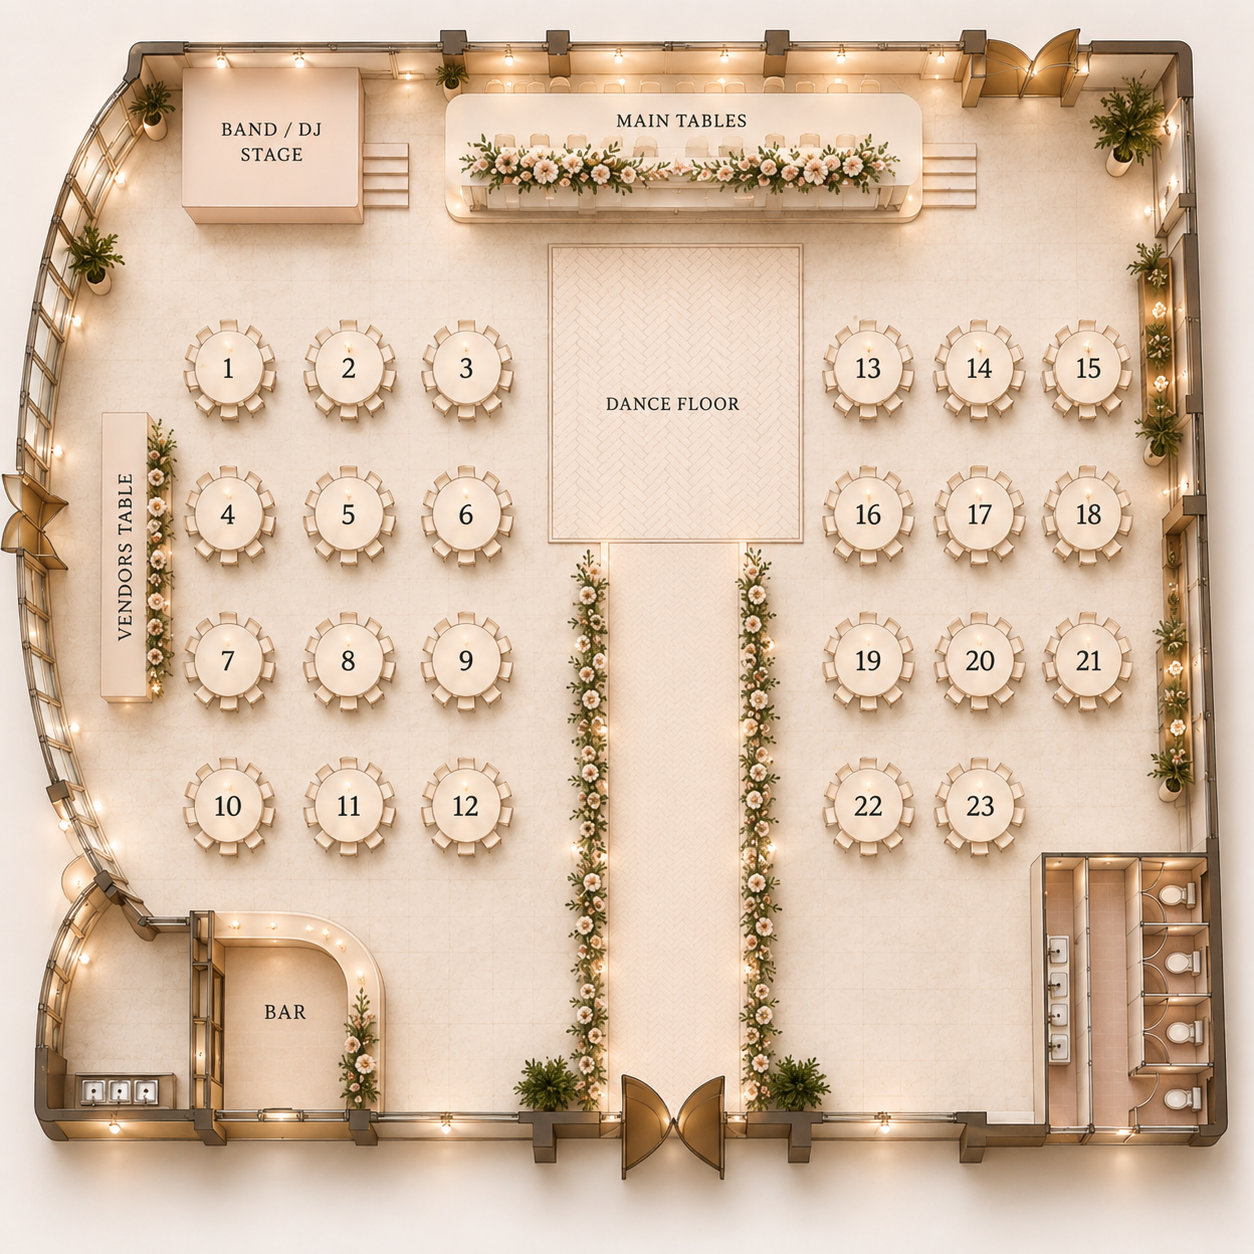
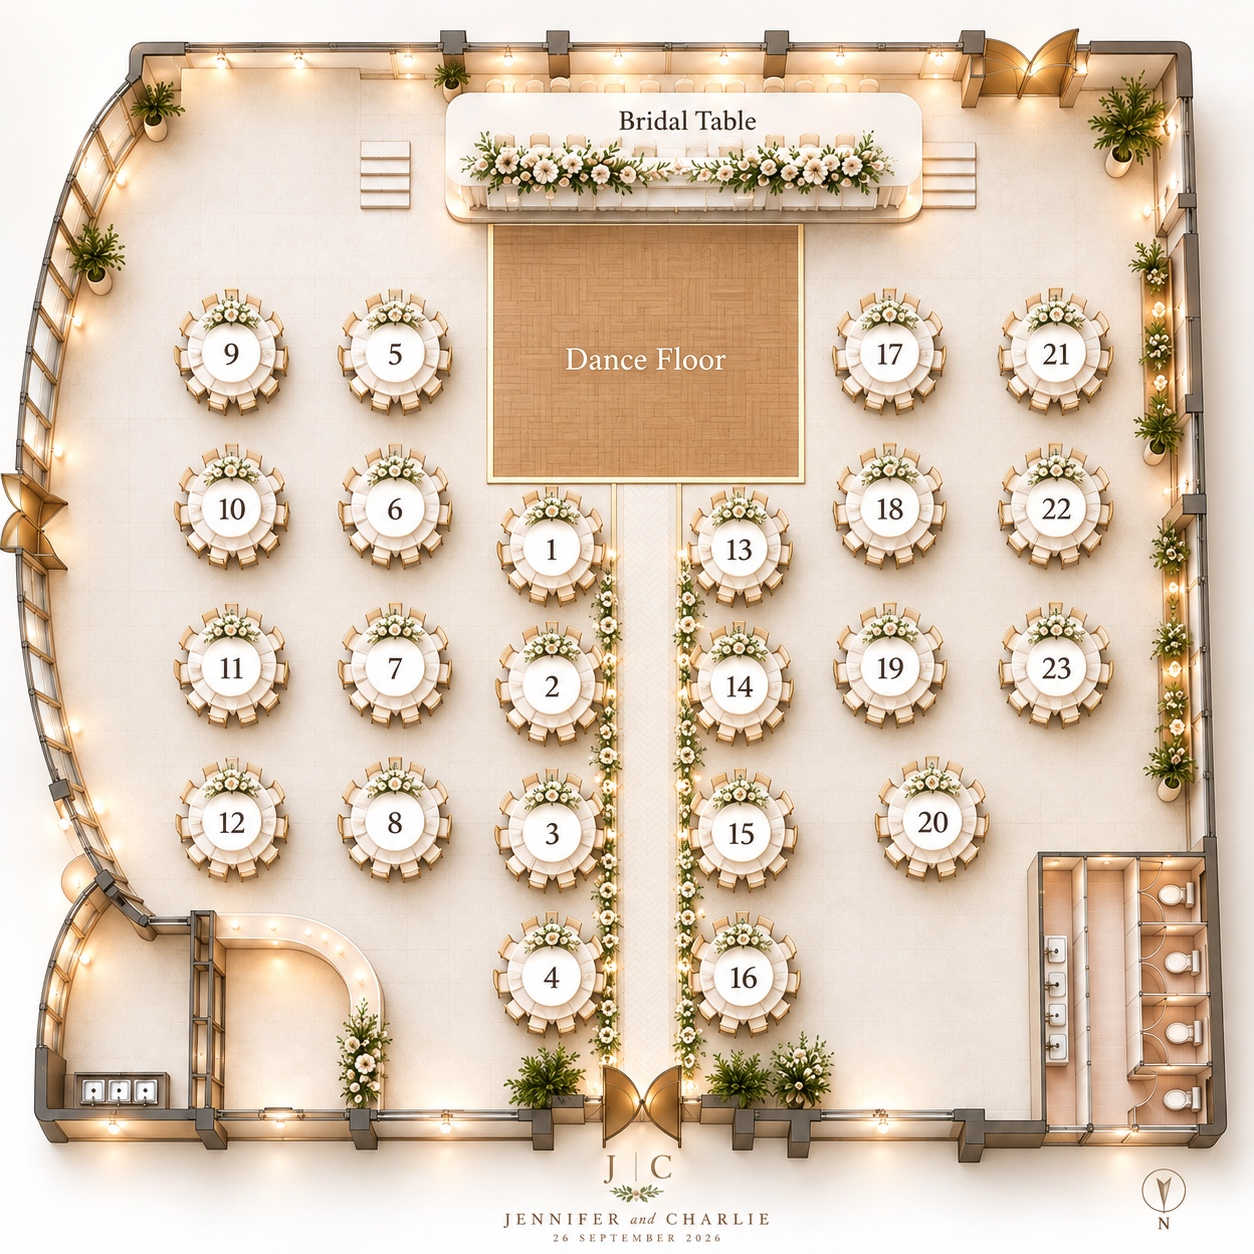
Add files via upload

diff --git a/index.html b/index.html
@@ -18,7 +18,7 @@
 .panel{overflow:hidden}.panel-head{padding:14px 15px 11px;border-bottom:1px solid #f0e4df;display:flex;justify-content:space-between;align-items:center;gap:10px}.panel-title{font-family:"Cormorant Garamond",serif;font-size:27px;font-weight:600}.panel-count{font-size:11px;color:var(--muted);text-align:right}.guest-list{padding:7px}.guest{width:100%;min-height:58px;border:0;border-bottom:1px solid #f2e8e4;background:transparent;display:flex;align-items:center;gap:11px;text-align:left;padding:9px 8px;border-radius:12px;color:var(--ink)}.guest:last-child{border-bottom:0}.guest.attended{background:var(--greenbg);border-bottom-color:transparent}.check{width:32px;height:32px;flex:0 0 32px;border:2px solid #d9c8c1;border-radius:50%;display:grid;place-items:center;color:white;font-weight:800}.attended .check{background:var(--green);border-color:var(--green)}.gcopy{min-width:0;flex:1}.gname{display:block;font-weight:700;font-size:14px;white-space:nowrap;overflow:hidden;text-overflow:ellipsis}.gmeta{display:block;font-size:10px;color:var(--muted);margin-top:4px}.attended .gmeta{color:var(--green);font-weight:600}.status{font-size:10px;font-weight:700;color:var(--green);text-transform:uppercase}.guest-actions{display:flex;align-items:center;gap:7px;flex:0 0 auto}.gift-btn{min-height:38px;min-width:58px;border:1px solid #ddc6bb;border-radius:11px;background:#fff8f4;color:#9b6754;font-size:11px;font-weight:700;padding:6px 9px}.gift-btn.has-gift{background:#f3e6d6;border-color:#d5b38b;color:#76523f}.gift-mark{font-size:12px;font-weight:700;color:#9b6754}.empty{text-align:center;padding:28px 15px;color:var(--muted);font-size:13px}
 .connection{display:flex;align-items:center;justify-content:center;gap:6px;color:var(--muted);font-size:10px;margin:10px 0}.dot{width:7px;height:7px;border-radius:50%;background:#d7b38b}.dot.live{background:var(--green)}.footer{text-align:center;font-size:9px;color:#aaa09c;margin-top:17px}
 .modal-back{position:fixed;inset:0;background:rgba(48,37,33,.36);display:none;align-items:end;justify-content:center;padding:12px;z-index:30}.modal-back.show{display:flex}.modal{width:min(500px,100%);background:#fff;border-radius:22px;padding:20px;box-shadow:0 20px 60px rgba(0,0,0,.18)}.modal h3{font-family:"Cormorant Garamond",serif;font-size:27px;margin:0 0 7px}.modal p{font-size:13px;color:var(--muted);line-height:1.5}.modal-actions{display:grid;grid-template-columns:1fr 1fr;gap:8px;margin-top:15px}.modal button{min-height:47px;border-radius:14px;border:1px solid var(--line);background:#fff;font-weight:700}.modal .danger{background:#b85d62;color:#fff;border-color:#b85d62}
-.toast{position:fixed;left:50%;bottom:18px;transform:translate(-50%,15px);opacity:0;pointer-events:none;background:#3e3937;color:#fff;padding:11px 14px;border-radius:12px;font-size:11px;z-index:40;transition:.2s;max-width:90%;text-align:center}.toast.show{opacity:1;transform:translate(-50%,0)}
+.guest.saving{opacity:.72;pointer-events:none}.gift-btn:disabled,.group-btn:disabled{opacity:.55}.connection.warn{color:#9b6754}.toast{position:fixed;left:50%;bottom:18px;transform:translate(-50%,15px);opacity:0;pointer-events:none;background:#3e3937;color:#fff;padding:11px 14px;border-radius:12px;font-size:11px;z-index:40;transition:.2s;max-width:90%;text-align:center}.toast.show{opacity:1;transform:translate(-50%,0)}
 
 
 .group-card{margin:10px 0 13px;border:1px solid #ead7cf;border-radius:16px;background:#fffaf7;overflow:hidden}
@@ -41,10 +41,10 @@
 .table-map-title{font-family:"Cormorant Garamond",serif;font-size:21px;font-weight:600}
 .table-map-note{font-size:9px;color:var(--muted);text-align:right}
 .map-window{position:relative;width:100%;aspect-ratio:1/1;overflow:hidden;border-radius:15px;border:1px solid #ead8ca;background:#f0e5d9}
-.map-stage{position:absolute;width:1536px;height:1536px;transform-origin:0 0;will-change:transform}
-.map-stage img{position:absolute;inset:0;width:1536px;height:1536px;display:block;user-select:none;-webkit-user-drag:none}
-.map-pin{position:absolute;width:62px;height:62px;border-radius:50%;border:4px solid rgba(173,85,91,.95);background:rgba(255,255,255,.58);box-shadow:0 0 0 7px rgba(201,117,121,.18);transform:translate(-50%,-50%);display:grid;place-items:center;color:var(--rose2);font-size:17px;font-weight:800}
-.map-pin.main{width:100px;height:56px;border-radius:18px;font-size:12px}
+.map-stage{position:absolute;width:1254px;height:1254px;transform-origin:0 0;will-change:transform}
+.map-stage img{position:absolute;inset:0;width:1254px;height:1254px;display:block;user-select:none;-webkit-user-drag:none}
+.map-pin{position:absolute;width:78px;height:78px;border-radius:50%;border:5px solid rgba(173,85,91,.95);background:transparent;box-shadow:0 0 0 7px rgba(201,117,121,.16);transform:translate(-50%,-50%);display:grid;place-items:center;color:transparent;font-size:0;font-weight:800;pointer-events:none}
+.map-pin.main{width:480px;height:118px;border-radius:24px;font-size:0;background:transparent;color:transparent}
 .map-hint{text-align:center;color:var(--muted);font-size:9px;margin-top:7px}
 
 @media(min-width:650px){.tables{grid-template-columns:repeat(8,1fr)}.guest-list{display:grid;grid-template-columns:1fr 1fr;gap:5px}.guest{border:1px solid #f1e6e1}.modal-back{align-items:center}}
@@ -69,7 +69,7 @@
    <div class="table-map-head"><div id="tableMapTitle" class="table-map-title">Table location</div><div class="table-map-note">Reception layout</div></div>
    <div id="mapWindow" class="map-window">
      <div id="mapStage" class="map-stage">
-       <img src="wedding-map.png" alt="Reception table layout">
+       <img src="wedding-map.png?v=81" alt="Reception table layout">
        <div id="mapPin" class="map-pin"></div>
      </div>
    </div>
@@ -90,6 +90,35 @@ const SEED=[{"first":"Charlie","last":"Bui","table":"Main"},{"first":"Jennifer",
 const $=s=>document.querySelector(s);
 const state={guests:SEED.map((g,i)=>({...g,id:`g${String(i+1).padStart(3,"0")}`,name:(g.first+" "+g.last).trim(),attended:false,gift:false,time:"",by:""})),table:"ALL",query:"",undo:null,lastSync:0};
 const tableOrder=["ALL","Main",...Array.from({length:23},(_,i)=>String(i+1))];
+// Coordinates match wedding-map.png (1254 × 1254) — updated reception layout.
+const MAP_SIZE=1254;
+const tablePositions={
+  "Main":[627,150],
+  "9":[230,350],
+  "5":[393,350],
+  "17":[884,350],
+  "21":[1054,350],
+  "10":[230,509],
+  "6":[393,509],
+  "1":[551,550],
+  "13":[735,550],
+  "18":[884,509],
+  "22":[1054,509],
+  "11":[230,669],
+  "7":[393,669],
+  "2":[551,688],
+  "14":[735,688],
+  "19":[884,669],
+  "23":[1054,669],
+  "12":[230,820],
+  "8":[393,820],
+  "3":[551,835],
+  "15":[735,835],
+  "20":[884,820],
+  "4":[551,974],
+  "16":[735,974]
+};
+const syncState={busy:false,activeWrites:0,revision:0,pending:new Map(),lastFullSync:0};
 function norm(s){return String(s||"").toLowerCase().normalize("NFD").replace(/[\u0300-\u036f]/g,"").replace(/[^a-z0-9]/g,"")}
 function esc(s){return String(s).replace(/[&<>"']/g,m=>({"&":"&amp;","<":"&lt;",">":"&gt;","\"":"&quot;","'":"&#039;"}[m]))}
 function toast(m){const t=$("#toast");t.textContent=m;t.classList.add("show");clearTimeout(toast.t);toast.t=setTimeout(()=>t.classList.remove("show"),2500)}
@@ -119,33 +148,15 @@ function renderGuests(){
     bindGroupButtons(root);
   }
   list.forEach(g=>{
-    const b=document.createElement("button");b.className="guest "+(g.attended?"attended":"");
+    const b=document.createElement("div");b.className="guest "+(g.attended?"attended":"");b.setAttribute("role","button");b.tabIndex=0;
     b.innerHTML=`<span class="check">${g.attended?"✓":""}</span><span class="gcopy"><span class="gname">${esc(g.name)}</span><span class="gmeta">${g.table==="Main"?"Main Table":"Table "+esc(g.table)}${g.group?" · "+esc(g.group):""}${g.attended&&g.time?" · "+esc(g.time):""}</span></span><span class="guest-actions">${g.attended?'<span class="status">Attended</span>':""}<button type="button" class="gift-btn${g.gift?" has-gift":""}">${g.gift?"🎁 Gift ✓":"🎁 Gift"}</button></span>`;
     const giftBtn=b.querySelector(".gift-btn");giftBtn.addEventListener("click",e=>{e.stopPropagation();setGift(g,!g.gift)});
-    b.addEventListener("click",e=>{if(!e.target.closest(".gift-btn"))toggleGuest(g)});root.appendChild(b)
+    b.addEventListener("click",e=>{if(!e.target.closest(".gift-btn"))toggleGuest(g)});b.addEventListener("keydown",e=>{if((e.key==="Enter"||e.key===" ")&&!e.target.closest(".gift-btn")){e.preventDefault();toggleGuest(g)}});root.appendChild(b)
   });
 }
 function bindGroupButtons(root){
   root.querySelectorAll("[data-group-att]").forEach(btn=>btn.addEventListener("click",()=>setGroupAttendance(btn.dataset.groupAtt)));
   root.querySelectorAll("[data-group-gift]").forEach(btn=>btn.addEventListener("click",()=>setGroupGift(btn.dataset.groupGift)));
-}
-async function refreshFromServerData(d){
-  if(d&&d.guests){
-    d.guests.forEach(r=>{const g=state.guests.find(x=>x.id===r.id);if(g){g.group=r.group||"";g.attended=!!r.attended;g.gift=!!r.gift;g.time=r.time||"";g.by=r.by||""}});
-  }
-  render();
-}
-async function setGroupAttendance(group){
-  const members=state.guests.filter(g=>g.group===group),value=!members.every(g=>g.attended),old=members.map(g=>({...g}));
-  members.forEach(g=>{g.attended=value;if(!value)g.gift=false});render();
-  try{const d=await jsonp({action:"groupAttendance",group,attended:value?"true":"false",by:window.ATTENDANCE_CONFIG.deviceName||"Check-in",key:window.ATTENDANCE_CONFIG.sharedKey||""});if(!d.ok)throw new Error(d.error||"save");await refreshFromServerData(d);toast(value?group+" — whole group checked in":group+" — group attendance removed")}
-  catch(e){old.forEach(o=>Object.assign(state.guests.find(g=>g.id===o.id),o));render();toast("Could not update group: "+(e.message||e))}
-}
-async function setGroupGift(group){
-  const members=state.guests.filter(g=>g.group===group),value=!members.some(g=>g.gift),old=members.map(g=>({...g}));
-  members.forEach(g=>{g.gift=value;if(value)g.attended=true});render();
-  try{const d=await jsonp({action:"groupGift",group,gift:value?"true":"false",by:window.ATTENDANCE_CONFIG.deviceName||"Check-in",key:window.ATTENDANCE_CONFIG.sharedKey||""});if(!d.ok)throw new Error(d.error||"save");await refreshFromServerData(d);toast(value?group+" — gift received & group checked in":group+" — gift removed")}
-  catch(e){old.forEach(o=>Object.assign(state.guests.find(g=>g.id===o.id),o));render();toast("Could not update group gift: "+(e.message||e))}
 }
 function renderTableMap(){
   const box=$("#tableMap"),win=$("#mapWindow"),stage=$("#mapStage"),pin=$("#mapPin");
@@ -159,51 +170,126 @@ function renderTableMap(){
   if(!pos){box.hidden=true;return}
   box.hidden=false;
   $("#tableMapTitle").textContent=mapTable==="Main"?"Main Table location":"Table "+mapTable+" location";
-  pin.textContent=mapTable==="Main"?"MAIN":mapTable;
+  pin.textContent="";
   pin.className="map-pin"+(mapTable==="Main"?" main":"");
   pin.style.left=pos[0]+"px"; pin.style.top=pos[1]+"px";
   requestAnimationFrame(()=>{
     const w=win.clientWidth,h=win.clientHeight;
     // Show surrounding context, not just the table itself.
-    const scale=Math.min(w/900,h/900);
+    const scale=Math.min(w/760,h/760);
     let tx=w/2-pos[0]*scale, ty=h/2-pos[1]*scale;
-    const minX=w-1536*scale,minY=h-1536*scale;
+    const minX=w-MAP_SIZE*scale,minY=h-MAP_SIZE*scale;
     tx=Math.min(0,Math.max(minX,tx)); ty=Math.min(0,Math.max(minY,ty));
     stage.style.transform=`translate(${tx}px,${ty}px) scale(${scale})`;
   });
 }
 function render(){summary();renderTables();renderGuests();renderTableMap()}
-function applyServer(rows){if(!Array.isArray(rows))return;const byId=new Map(rows.map(r=>[String(r.id),r]));state.guests.forEach(g=>{const r=byId.get(g.id);if(r){g.group=r.group||"";g.attended=String(r.attended).toLowerCase()==="true"||r.attended===true;g.gift=String(r.gift).toLowerCase()==="true"||r.gift===true;g.time=r.time||"";g.by=r.by||""}});state.lastSync=Date.now();$("#dot").classList.add("live");$("#connectionText").textContent="Synced with Google Sheet";render()}
-function jsonp(params,timeout=8000){return new Promise((resolve,reject)=>{const cb="jc_cb_"+Date.now()+"_"+Math.random().toString(36).slice(2),s=document.createElement("script"),timer=setTimeout(()=>done(new Error("timeout")),timeout);function done(err,data){clearTimeout(timer);delete window[cb];s.remove();err?reject(err):resolve(data)}window[cb]=d=>done(null,d);const u=new URL(window.ATTENDANCE_CONFIG?.webAppUrl||"");Object.entries({...params,callback:cb}).forEach(([k,v])=>u.searchParams.set(k,v));s.src=u.toString();s.onerror=()=>done(new Error("network"));document.body.appendChild(s)})}
-async function apiCall(params, retries=2){
-  let lastErr;
-  const delays=[1000,3000];
-  for(let attempt=0;attempt<=retries;attempt++){
-    try{return await jsonp(params);}
-    catch(err){
-      lastErr=err;
-      if(attempt<retries) await new Promise(r=>setTimeout(r,delays[Math.min(attempt,delays.length-1)]));
-    }
-  }
-  throw lastErr;
+function applyServer(rows, revision){
+  if(!Array.isArray(rows))return;
+  const byId=new Map(rows.map(r=>[String(r.id),r]));
+  state.guests.forEach(g=>{
+    if(syncState.pending.has(g.id))return; // never overwrite a write still in flight
+    const r=byId.get(g.id);if(!r)return;
+    g.group=r.group||"";g.attended=!!r.attended;g.gift=!!r.gift;g.time=r.time||"";g.by=r.by||"";
+  });
+  if(Number.isFinite(Number(revision)))syncState.revision=Number(revision);
+  state.lastSync=Date.now();syncState.lastFullSync=Date.now();
+  $("#dot").classList.add("live");$("#connectionText").textContent="Synced with Google Sheet";render();
 }
-
-async function sync(){if(!window.ATTENDANCE_CONFIG?.webAppUrl){$("#connectionText").textContent="Demo mode — connect Apps Script to enable live sync";return}$("#sync").classList.add("spinning");try{const d=await apiCall({action:"list",key:window.ATTENDANCE_CONFIG.sharedKey||""});if(!d.ok)throw new Error(d.error||"sync");applyServer(d.guests)}catch(e){$("#dot").classList.remove("live");$("#connectionText").textContent="Sync unavailable — tap ↻ to retry"}finally{$("#sync").classList.remove("spinning")}}
-async function setAttendance(g,value){const old={attended:g.attended,time:g.time,by:g.by};g.attended=value;g.time=value?new Date().toLocaleTimeString([],{hour:"numeric",minute:"2-digit"}):"";g.by=value?(window.ATTENDANCE_CONFIG?.deviceName||"Check-in"):"";render();if(!window.ATTENDANCE_CONFIG?.webAppUrl){toast(value?g.name+" marked attended":"Attendance undone");return}try{const d=await apiCall({action:"set",id:g.id,attended:value?"true":"false",by:window.ATTENDANCE_CONFIG.deviceName||"Check-in",key:window.ATTENDANCE_CONFIG.sharedKey||""});if(!d.ok)throw new Error(d.error||"save");if(d.guest){g.attended=!!d.guest.attended;g.time=d.guest.time||g.time;g.by=d.guest.by||g.by}render();toast(value?g.name+" checked in":"Attendance undone")}catch(e){Object.assign(g,old);render();toast("Could not save — attendance was not changed")}}
-async function setGift(g,value){
-  const old={attended:g.attended,gift:g.gift,time:g.time,by:g.by};
-  g.gift=value;
-  if(value)g.attended=true;
-  if(value&&!g.time)g.time=new Date().toLocaleTimeString([],{hour:"numeric",minute:"2-digit"});
-  if(value&&!g.by)g.by=window.ATTENDANCE_CONFIG?.deviceName||"Check-in";
-  render();
-  if(!window.ATTENDANCE_CONFIG?.webAppUrl){toast(value?g.name+" — gift recorded & attended":g.name+" — gift removed");return}
+function apiUrl(){
+  const u=String(window.ATTENDANCE_CONFIG?.webAppUrl||"").trim();
+  if(!u)throw new Error("Apps Script URL is missing from config.js");return u;
+}
+async function apiPost(action,payload={},timeout=15000){
+  const body=new URLSearchParams();
+  body.set("action",action);body.set("key",window.ATTENDANCE_CONFIG?.sharedKey||"");
+  body.set("payload",JSON.stringify(payload));
+  const ctl=new AbortController(),timer=setTimeout(()=>ctl.abort(),timeout);
   try{
-    const d=await apiCall({action:"gift",id:g.id,gift:value?"true":"false",by:window.ATTENDANCE_CONFIG.deviceName||"Check-in",key:window.ATTENDANCE_CONFIG.sharedKey||""});
-    if(!d.ok)throw new Error(d.error||"save");
-    if(d.guest){g.attended=!!d.guest.attended;g.gift=!!d.guest.gift;g.time=d.guest.time||g.time;g.by=d.guest.by||g.by}
-    render();toast(value?g.name+" — gift recorded & attended":g.name+" — gift removed");
-  }catch(e){Object.assign(g,old);render();toast("Could not save gift — no change was made")}
+    const res=await fetch(apiUrl(),{method:"POST",body,signal:ctl.signal,redirect:"follow",cache:"no-store"});
+    const text=await res.text();
+    if(!res.ok)throw new Error("Google HTTP "+res.status);
+    if(!text.trim()||/^\s*</.test(text))throw new Error("Google returned a web page instead of data");
+    const d=JSON.parse(text);if(!d.ok)throw new Error(d.error||"Request failed");return d;
+  }catch(e){
+    if(e?.name==="AbortError")throw new Error("Google Sheets took too long to respond");
+    throw e;
+  }finally{clearTimeout(timer)}
+}
+async function apiRead(action,timeout=12000){
+  // Reads can safely retry once. Writes never auto-retry.
+  let err;
+  for(let n=0;n<2;n++){
+    try{return await apiPost(action,{},timeout)}catch(e){err=e;if(n===0)await new Promise(r=>setTimeout(r,650))}
+  }
+  throw err;
+}
+async function sync(force=false){
+  if(syncState.activeWrites>0||syncState.busy)return;
+  if(document.visibilityState!=="visible"&&!force)return;
+  syncState.busy=true;$("#sync").classList.add("spinning");
+  try{
+    const d=await apiRead("list");applyServer(d.guests,d.revision);
+  }catch(e){
+    $("#dot").classList.remove("live");$("#connectionText").textContent="Sync delayed — showing last saved copy";
+  }finally{syncState.busy=false;$("#sync").classList.remove("spinning")}
+}
+async function pollRevision(){
+  if(syncState.activeWrites>0||syncState.busy||document.visibilityState!=="visible")return;
+  try{
+    const d=await apiRead("revision",8000),remote=Number(d.revision||0);
+    if(remote&&remote!==syncState.revision)await sync();
+  }catch(e){/* 60-second full sync is the fallback */}
+}
+function beginWrite(ids){syncState.activeWrites++;ids.forEach(id=>syncState.pending.set(id,true));$("#connectionText").textContent="Saving to Google Sheet…"}
+function endWrite(ids){ids.forEach(id=>syncState.pending.delete(id));syncState.activeWrites=Math.max(0,syncState.activeWrites-1)}
+function applyReturnedGuests(rows,revision){
+  if(Array.isArray(rows)){
+    const byId=new Map(rows.map(r=>[String(r.id),r]));
+    state.guests.forEach(g=>{const r=byId.get(g.id);if(r){g.group=r.group||"";g.attended=!!r.attended;g.gift=!!r.gift;g.time=r.time||"";g.by=r.by||""}});
+  }
+  if(Number.isFinite(Number(revision)))syncState.revision=Number(revision);
+  state.lastSync=Date.now();$("#dot").classList.add("live");$("#connectionText").textContent="Saved to Google Sheet";render();
+}
+async function setAttendance(g,value){
+  if(syncState.pending.has(g.id))return;
+  const old={attended:g.attended,gift:g.gift,time:g.time,by:g.by};
+  g.attended=value;if(!value)g.gift=false;
+  g.time=value?(g.time||new Date().toLocaleTimeString([],{hour:"numeric",minute:"2-digit"})):"";
+  g.by=value?(window.ATTENDANCE_CONFIG?.deviceName||"Check-in"):"";render();beginWrite([g.id]);
+  try{
+    const d=await apiPost("set",{id:g.id,attended:value,by:window.ATTENDANCE_CONFIG?.deviceName||"Check-in"});
+    applyReturnedGuests(d.guests,d.revision);toast(value?g.name+" checked in":"Attendance undone");
+  }catch(e){Object.assign(g,old);render();toast("Could not confirm save — please tap again");}
+  finally{endWrite([g.id])}
+}
+async function setGift(g,value){
+  if(syncState.pending.has(g.id))return;
+  const old={attended:g.attended,gift:g.gift,time:g.time,by:g.by};
+  g.gift=value;if(value){g.attended=true;g.time=g.time||new Date().toLocaleTimeString([],{hour:"numeric",minute:"2-digit"});g.by=g.by||window.ATTENDANCE_CONFIG?.deviceName||"Check-in"}render();beginWrite([g.id]);
+  try{
+    const d=await apiPost("gift",{id:g.id,gift:value,by:window.ATTENDANCE_CONFIG?.deviceName||"Check-in"});
+    applyReturnedGuests(d.guests,d.revision);toast(value?g.name+" — gift received & attended":g.name+" — gift removed");
+  }catch(e){Object.assign(g,old);render();toast("Could not confirm gift save — please tap again");}
+  finally{endWrite([g.id])}
+}
+async function setGroupAttendance(group){
+  const members=state.guests.filter(g=>g.group&&g.group===group);if(!members.length){toast("No linked group found");return}
+  const ids=members.map(g=>g.id);if(ids.some(id=>syncState.pending.has(id)))return;
+  const value=!members.every(g=>g.attended),old=members.map(g=>({id:g.id,attended:g.attended,gift:g.gift,time:g.time,by:g.by}));
+  members.forEach(g=>{g.attended=value;if(!value){g.gift=false;g.time="";g.by=""}});render();beginWrite(ids);
+  try{const d=await apiPost("groupAttendance",{group,attended:value,by:window.ATTENDANCE_CONFIG?.deviceName||"Check-in"});applyReturnedGuests(d.guests,d.revision);toast(value?group+" — whole group checked in":group+" — group attendance removed")}
+  catch(e){old.forEach(o=>Object.assign(state.guests.find(g=>g.id===o.id),o));render();toast("Could not confirm group save — please try again")}
+  finally{endWrite(ids)}
+}
+async function setGroupGift(group){
+  const members=state.guests.filter(g=>g.group&&g.group===group);if(!members.length){toast("No linked group found");return}
+  const ids=members.map(g=>g.id);if(ids.some(id=>syncState.pending.has(id)))return;
+  const value=!members.some(g=>g.gift),old=members.map(g=>({id:g.id,attended:g.attended,gift:g.gift,time:g.time,by:g.by}));
+  members.forEach(g=>{g.gift=value;if(value)g.attended=true});render();beginWrite(ids);
+  try{const d=await apiPost("groupGift",{group,gift:value,by:window.ATTENDANCE_CONFIG?.deviceName||"Check-in"});applyReturnedGuests(d.guests,d.revision);toast(value?group+" — gift received & group checked in":group+" — group gift removed")}
+  catch(e){old.forEach(o=>Object.assign(state.guests.find(g=>g.id===o.id),o));render();toast("Could not confirm group gift — please try again")}
+  finally{endWrite(ids)}
 }
 function toggleGuest(g){if(!g.attended){setAttendance(g,true);return}state.undo=g;$("#modalText").textContent=`${g.name} is already marked attended${g.time?" at "+g.time:""}. Only undo this if it was checked by mistake.`;$("#modalBack").classList.add("show")}
 $("#cancelUndo").addEventListener("click",()=>{$("#modalBack").classList.remove("show");state.undo=null});
@@ -211,8 +297,8 @@ $("#confirmUndo").addEventListener("click",()=>{const g=state.undo;$("#modalBack
 $("#modalBack").addEventListener("click",e=>{if(e.target===$("#modalBack")){$("#modalBack").classList.remove("show");state.undo=null}});
 $("#search").addEventListener("input",e=>{state.query=e.target.value;renderGuests();renderTableMap()});
 $("#sync").addEventListener("click",sync);
-render();sync();setInterval(()=>{if(document.visibilityState==="visible")sync()},15000);
-document.addEventListener("visibilitychange",()=>{if(document.visibilityState==="visible")sync()});
+render();sync(true);setInterval(pollRevision,5000);setInterval(()=>{if(document.visibilityState==="visible")sync()},60000);
+document.addEventListener("visibilitychange",()=>{if(document.visibilityState==="visible")pollRevision()});
 </script>
 </body>
 </html>
